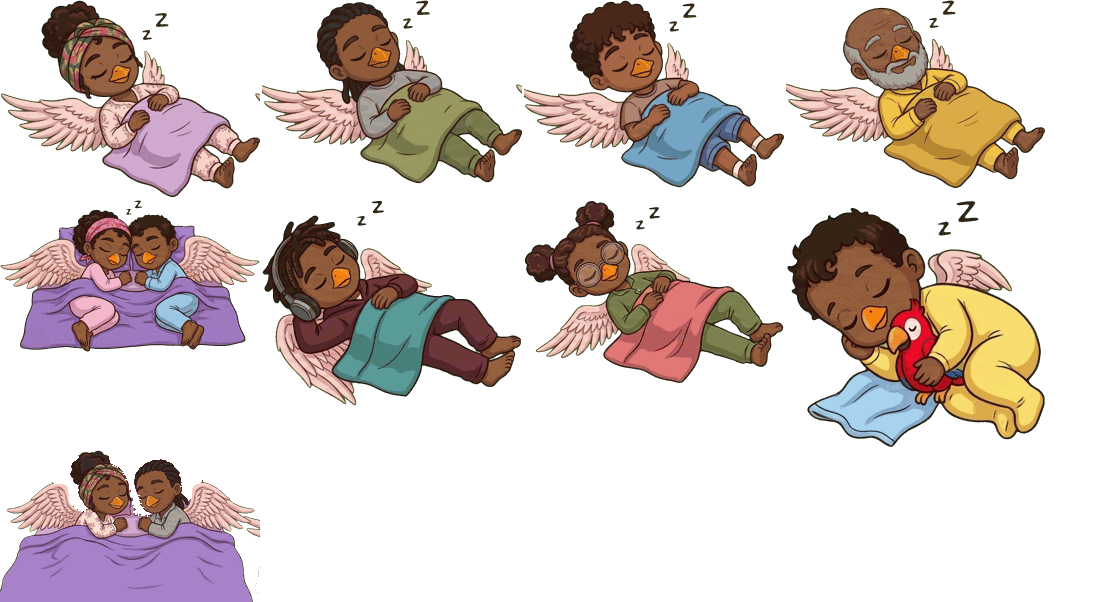
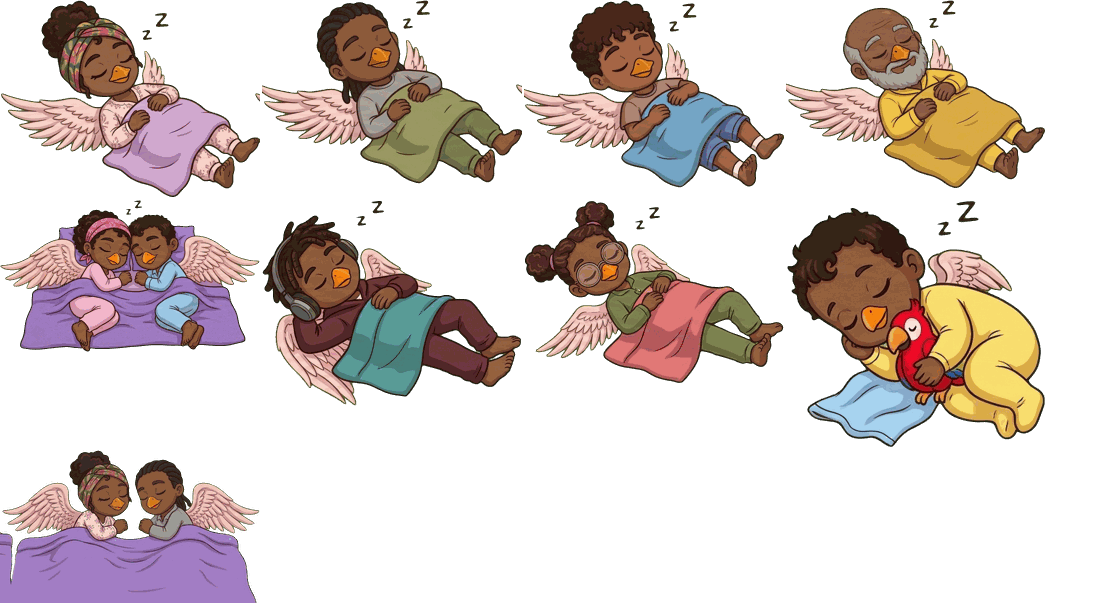
Parents de Myah endormis : nouvelle illustration sans coussins
Claude-Session: https://claude.ai/code/session_014bi368SbjZ4sCSmbjCzFcj

diff --git a/game.js b/game.js
@@ -4242,7 +4242,7 @@ function icTouch(q) {
   Object.defineProperty(SC_MUS, 'npc', { configurable: true, get: () => nearestN(SC_MUS.npcs()) });
 }
 // la nuit, les habitants qui ont un lit dorment dedans : Miraaï et Kahn (grand lit) et Nijan (lit superposé) chez Myah, la famille Ukaï, Zyno dans sa cabine
-const SLP_IMG = new Image(); SLP_IMG.src = 'assets/sleepers.png?v=57'; const SLP_M = {"maman": [0, 0, 260, 198], "kahn": [262, 0, 260, 184], "frere": [524, 0, 260, 188], "pecheur": [786, 0, 260, 189], "couple": [0, 200, 260, 152], "romi": [262, 200, 260, 206], "lila": [524, 200, 260, 184], "kito": [786, 200, 260, 248], "parents": [0, 450, 260, 152]};
+const SLP_IMG = new Image(); SLP_IMG.src = 'assets/sleepers.png?v=58'; const SLP_M = {"maman": [0, 0, 260, 198], "kahn": [262, 0, 260, 184], "frere": [524, 0, 260, 188], "pecheur": [786, 0, 260, 189], "couple": [0, 200, 260, 152], "romi": [262, 200, 260, 206], "lila": [524, 200, 260, 184], "kito": [786, 200, 260, 248], "parents": [0, 450, 260, 153]};
 const sleepNow = () => isEve() && dayT > .72;
 {
   const gx = k => EXTRAS.find(e => e.key === k), ZYN = QUESTS.find(q => q.id === 'toto'), NJN = QUESTS.find(q => q.id === 'bleu');

diff --git a/index.html b/index.html
@@ -1137,12 +1137,12 @@
 <script src="packs.js"></script>
 <script src="data.js"></script>
 <script src="grass.js"></script>
-<script src="npcs.js?v=57"></script>
+<script src="npcs.js?v=58"></script>
 <script src="myah.js"></script>
 <script src="mymask.js"></script>
 <script src="sprites.js"></script>
 <script src="art.js"></script>
-<script src="game.js?v=57"></script>
+<script src="game.js?v=58"></script>
 </body>
 </html>
 
